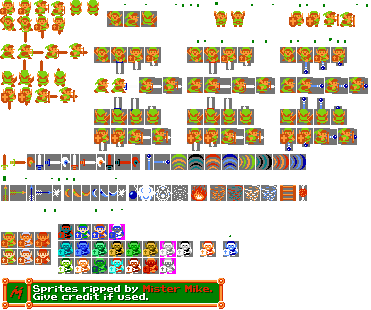
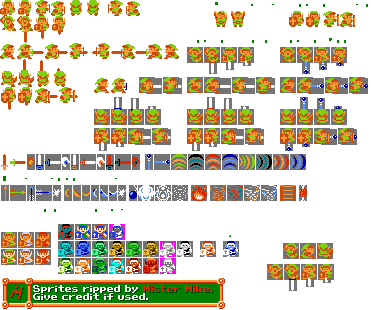
Added new map and other modifications

diff --git a/SDL Game/Map.cpp b/SDL Game/Map.cpp
@@ -15,15 +15,34 @@ int lvl1[11][16] = {
 	{1,1,1,1,1,1,1,1,1,1,1,1,1,1,1,1}
 };
 
+int lvl2[11][16] = {
+	{1,1,1,1,1,1,1,1,1,1,1,1,1,1,1,1},
+	{1,1,1,1,1,1,1,1,1,1,1,1,1,1,1,1},
+	{1,1,1,0,0,0,0,0,0,0,0,0,0,1,1,1},
+	{1,1,1,0,0,0,0,0,0,0,0,0,0,1,1,1},
+	{1,1,1,1,1,1,1,0,0,1,1,1,1,1,1,1},
+	{1,1,1,1,1,1,1,0,0,1,1,1,1,1,1,1},
+	{1,1,1,1,1,1,1,0,0,1,1,1,1,1,1,1},
+	{1,1,1,0,0,0,0,0,0,0,0,0,0,1,1,1},
+	{1,1,1,0,0,0,0,0,0,0,0,0,0,1,1,1},
+	{1,1,1,1,1,1,1,1,1,1,1,1,1,1,1,1},
+	{1,1,1,1,1,1,1,1,1,1,1,1,1,1,1,1}
+};
+
 Map::Map()
 {
 	Map_1 = TextureManager::LoadTexture("Assets/Map/Map_1.png");
+	Map_2 = TextureManager::LoadTexture("Assets/Map/Map_2.png");
 	if (Map_1 == NULL)
 	{
 		cout << "Map_1 not loaded" << endl;
 	}
+	if (Map_2 == NULL)
+	{
+		cout << "Map_2 not loaded" << endl;
+	}
 
-	LoadMap(lvl1);
+	LoadMap(lvl2);
 
 	src.x = src.y = 0;
 	src.w = 256;
@@ -47,11 +66,12 @@ void Map::LoadMap(int arr[11][16])
 
 void Map::DrawMap()
 {
-	TextureManager::Draw(Map_1, src, dest);
+	TextureManager::Draw(Map_2, src, dest);
 }
+
 bool Map::CollisionQuery(int x,int y)
 {
-//	cout << x << " " << y << endl;
+	//cout << x << " " << y << endl;
 	//cout << x / 64 << " " << y / 64 << " " << map[x / 64][y / 64] << endl;
 	//cout << x % 64 << " " << y % 64 << endl;
 	if (x % 64 == 1)

diff --git a/SDL Game/PlayerAnimationHandler.h b/SDL Game/PlayerAnimationHandler.h
@@ -12,12 +12,26 @@ public:
 
 	void resetAnimations();
 	int downAnimationSelect();
+	int upAnimationSelect();
+	int rightAnimationSelect();
+	int leftAnimationSelect();
+	
+	int downAttack();
+	int upAttack();
+	int rightAttack();
+	int leftAttack();
 
 private:
 	SDL_Texture* baseTexture = NULL;
-	int mvDownX[6] = { 2, 19, 36, 53, 70, 87 };
-	int downIterator = 1;
+	int mvDown[4] = { 0, 0, 17, 0 };
+	int mvUp[4] = { 68, 0, 85, 0 };
+	int mvRight[4] = { 34, 0, 51, 0 };
+	int mvLeft[4] = { 107, 0, 124, 0 };
 
+	int atkDown[4] = {};
+	int atkUp[4] = {};
+	int atkRight[4] = {};
+	int atkLeft[4] = {};
 };
 
 #endif

diff --git a/SDL Game/Game.cpp b/SDL Game/Game.cpp
@@ -43,12 +43,11 @@ void Game::Init(const char* title, int xpos, int ypos, int width, int height, bo
 		isRunning = false;
 	}
 
-	player = new Player("Assets/Movement_Attack.png", 128, 128, 4);
+	player = new Player("Assets/Movement_Attack.png", 192, 128, 4);
 	PlayerAnimationHandler* PlayerAnimator = new PlayerAnimationHandler();
 	player->assignAnimator(PlayerAnimator);
 	map = new Map();
 	KIM = new KeyboardManager();
-
 }
 
 void Game::HandleEvents()

diff --git a/SDL Game/KeyboardInputManager.cpp b/SDL Game/KeyboardInputManager.cpp
@@ -34,12 +34,14 @@ void KeyboardManager::KeyInputEvent(Player* player, const Uint8* keystates,Map* 
 		if (!IscollidingWithWalls(3, player->GetPosX(), player->GetPosY(),mymap))
 		player->MoveLeft();
 	}
+	/*
 	if (keystates[SDL_SCANCODE_LSHIFT])
 	{
-		delayUnit = 100;
+		delayUnit = 10;
 	}
-	if (!keystates[SDL_SCANCODE_LSHIFT])
+	else if (!keystates[SDL_SCANCODE_LSHIFT])
 	{
-		delayUnit = 200;
+		delayUnit = 20;
 	}
+	*/
 }

diff --git a/SDL Game/PlayerAnimationHandler.cpp b/SDL Game/PlayerAnimationHandler.cpp
@@ -7,11 +7,11 @@ PlayerAnimationHandler::~PlayerAnimationHandler() {}
 
 void PlayerAnimationHandler::resetAnimations()
 {
-	downIterator = 1;
+	return;
 }
 
 int PlayerAnimationHandler::downAnimationSelect()
 {
 	//cout << downIterator + 1 << endl;
-	return mvDownX[downIterator++ % 6];
+	return mvDown[0];
 }

diff --git a/SDL Game/Enemy1.h b/SDL Game/Enemy1.h
@@ -1,0 +1,18 @@
+#pragma once
+#ifndef Enemy1_HEADER
+#define Enemy1_HEADER
+
+#include "GameObject.h"
+
+class Enemy1 : public GameObject
+{
+public:
+	Enemy1(const char* textureSheet, int x, int y, int scale);
+	~Enemy1();
+
+private:
+	
+};
+
+#endif // !Enemy1_HEADER
+

diff --git a/SDL Game/player.h b/SDL Game/player.h
@@ -20,7 +20,7 @@ public:
 	int GetPosY();
 
 private:
-	int speedMultiplier = 8;
+	int speedMultiplier = 2;
 	bool movingDown = false;
 	PlayerAnimationHandler* Animator;
 	Uint32 animationDelayer = SDL_GetTicks();

diff --git a/SDL Game/KeyboardInputManager.h b/SDL Game/KeyboardInputManager.h
@@ -19,7 +19,7 @@ private:
 	Uint32 delayDown = SDL_GetTicks();
 	Uint32 delayRight = SDL_GetTicks();
 	Uint32 delayLeft = SDL_GetTicks();
-	float delayUnit = 0.05;
+	float delayUnit = 10;
 };
 
 #endif

diff --git a/SDL Game/Enemy1.cpp b/SDL Game/Enemy1.cpp
@@ -1,0 +1,4 @@
+#include "Enemy1.h"
+
+Enemy1 :: Enemy1(const char* textureSheet, int x, int y, int scale) : GameObject(textureSheet, x, y, scale)
+{}

diff --git a/SDL Game/GameObject.h b/SDL Game/GameObject.h
@@ -22,8 +22,7 @@ protected:
 
 	SDL_Texture* objectTexture= NULL;
 	SDL_Rect srcRect, destRect;
-	
-	//SDL_Renderer* renderer;
+
 };
 
 #endif

diff --git a/SDL Game/Map.h b/SDL Game/Map.h
@@ -18,6 +18,7 @@ private:
 	SDL_Rect src, dest;
 
 	SDL_Texture* Map_1 = NULL;
+	SDL_Texture* Map_2 = NULL;
 
 	int map[11][16];
 
